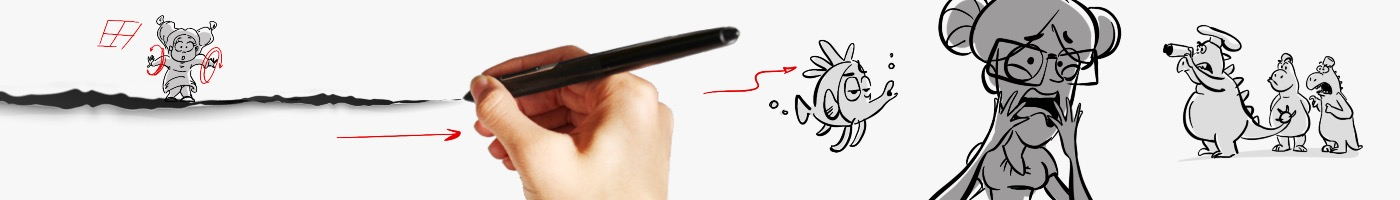
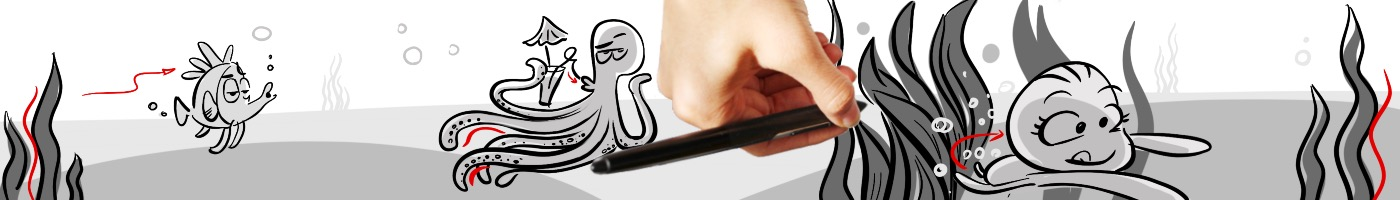
first version of the content

diff --git a/about.html b/about.html
@@ -3,7 +3,7 @@
 <head>
 	<meta charset="UTF-8">
 	<meta name="viewport" content="width=device-width, initial-scale=1.0">
-	<title>Xenia Morgun</title>
+	<title>Xenia Morgun - Storyboarder</title>
 
 	<link rel="stylesheet" href="./design/fonts.css">
 	<link rel="stylesheet" href="./design/banners.css">
@@ -17,12 +17,13 @@
 	<link rel="manifest" href="./favicon/site.webmanifest">
 </head>
 <body>
+	<div class="ARTIST">
+		<h1 class="name">Xenia&nbsp;Morgun / Storyboarder</h1>
+	</div>
+	<div class="PANEL" style="height: 50px;"></div> <!-- Abstand -->
 
 <div class="PANEL">
-	<div class="ARTIST">
-		<h1 class="name">Xenia&nbsp;Morgun</h1>
-	</div>
-	<div class="BANNER2"></div>
+	<div class="BANNER1"></div>
 	<nav>
 		<input type="checkbox" id="click">
 		<label for="click" class="burgerrahmen">
@@ -34,7 +35,6 @@
 			<li><a href="index.html">HOME</a></li>
 			<li><a href="portfolio.html">PORTFOLIO</a></li>
 			<li class="X"><a href="about.html">ABOUT</a></li>
-			<li><a href="cv.html" target="_blank">CV</a></li>
 			<li><a href="contact.html">CONTACT</a></li>
 		</menu>
 	</nav>
@@ -42,23 +42,47 @@
 <div class="PANEL" style="height: 50px;"></div> <!-- Abstand -->
 <main class="PANEL">
 
-  <img src="portrait5.png" alt="portrait5" style="width:250px; border-radius:15px; object-fit:cover; margin-top:35px;">
-
   <p style="text-align: justify;">
     Hi there and Welcome!<br><br>
 
     I’m a passionate visual artist driven by the love of storytelling through images.
-    Storyboarding is where I feel most at home — a space where thoughts, emotions, and ideas come to life in a simple, expressive, and efficient way.
-    With a diverse background in storyboarding, animation, illustration, caricature, drawing, photography, and fine art, I bring projects to life from concept to completion with care and intention.
-    I'm also open to custom work such as whiteboard animations, animatics, tailored illustrations, and caricature portraits — each project is an opportunity to connect, to translate ideas into visual narratives.
-    My tools include Adobe Suite, Toon Boom Storyboard, Blender, and Procreate, all of which I use fluently. I’m constantly evolving, learning new techniques to deliver high-quality, meaningful visuals.
-    I’m looking to collaborate in inspiring environments, where creativity, challenge, and beauty come together to shape unique, emotionally engaging projects.<br><br>
+    Storyboarding is where I feel most at home — a space where thoughts, emotions,
+    and ideas come to life in a simple, expressive, and efficient way.
+    With a diverse background in storyboarding, animation, illustration, caricature,
+    drawing, photography, and fine art, I bring projects to life from concept to completion
+    with care and intention.
+    I'm also open to custom work such as whiteboard animations, animatics, tailored
+    illustrations, and caricature portraits — each project is an opportunity to connect,
+    to translate ideas into visual narratives.
+    My tools include Adobe Suite, Toon Boom Storyboard, Blender, and Procreate, all of which
+    I use fluently. I’m constantly evolving, learning new techniques to deliver high-quality,
+    meaningful visuals.
+    I’m looking to collaborate in inspiring environments, where creativity, challenge, and
+    beauty come together to shape unique, emotionally engaging projects.<br><br>
 
-    Please feel free to contact me here or via e-mail: morgunxenia@gmail.com <br>
+    Please feel free to contact me here or via e-mail: morgunxenia@gmail.com<br>
     I speak fluently in French, English, Romanian and Russian.
   </p>
 
+
 </main>
+
+<div class="NONFLEXPANEL">
+	<img src="portrait3.png" style="width: 150px;
+	        height: 150px;
+	        border-radius: 50%;
+	        display: block;
+	        border:3px solid white;
+	        display: block; /* Macht das Bild zu einem Block-Element */
+	        margin-left: auto; /* Zentriert horizontal */
+	        margin-right: auto; /* Zentriert horizontal */ ">
+	<br>
+	<a href="cv.html" target="_blank" style="text-decoration: none;">Curriculum Vitae</a>
+</div>
+
+
+
+<br><br><br>
 
 <footer class="PANEL">
 	<p>© 2025 X. Morgun</p>

diff --git a/contact.html b/contact.html
@@ -3,7 +3,7 @@
 <head>
 	<meta charset="UTF-8">
 	<meta name="viewport" content="width=device-width, initial-scale=1.0">
-	<title>Xenia Morgun</title>
+	<title>Xenia Morgun - Storyboarder</title>
 
 	<link rel="stylesheet" href="./design/fonts.css">
 	<link rel="stylesheet" href="./design/banners.css">
@@ -18,11 +18,13 @@
 </head>
 <body>
 
-<div class="PANEL">
 	<div class="ARTIST">
-		<h1 class="name">Xenia&nbsp;Morgun / Storyboard</h1>
+		<h1 class="name">Xenia&nbsp;Morgun / Storyboarder</h1>
 	</div>
-	<div class="BANNER3"></div>
+	<div class="PANEL" style="height: 50px;"></div> <!-- Abstand -->
+
+<div class="PANEL">
+	<div class="BANNER2"></div>
 	<nav>
 		<input type="checkbox" id="click">
 		<label for="click" class="burgerrahmen">
@@ -34,7 +36,6 @@
 			<li><a href="index.html">HOME</a></li>
 			<li><a href="portfolio.html">PORTFOLIO</a></li>
 			<li><a href="about.html">ABOUT</a></li>
-			<li><a href="cv.html" target="_blank">CV</a></li>
 			<li class="X"><a href="contact.html">CONTACT</a></li>
 		</menu>
 	</nav>
@@ -46,12 +47,14 @@
 </div>
 
 <div class="PANEL">
-	<p>
-		<strong>Email:</strong> <a href="mailto:your.email@example.com">your.email@example.com</a><br>
-		<strong>Phone:</strong> +32 123 45 67 89<br>
-		<strong>Address:</strong> 123 Storyboard Street, 1000 Brussels, Belgium
+	<p style="line-height: 150%;">
+		<strong>Email:</strong> <a href="mailto:morgunxenia@gmail.com">morgunxenia@gmail.com</a><br>
+		<strong>Phone:</strong> +32 498 37 92 95<br>
+		<strong>Address:</strong> Bd de Douai 83, 4030 Liège, Belgium
 	</p>
 </div>
+
+<br><br><br>
 
 <footer class="PANEL">
 	<p>© 2025 X. Morgun</p>

diff --git a/portfolio.html b/portfolio.html
@@ -3,7 +3,7 @@
 <head>
 	<meta charset="UTF-8">
 	<meta name="viewport" content="width=device-width, initial-scale=1.0">
-	<title>Xenia Morgun</title>
+	<title>Xenia Morgun - Storyboarder</title>
 
 	<link rel="stylesheet" href="./design/fonts.css">
 	<link rel="stylesheet" href="./design/banners.css">
@@ -18,10 +18,12 @@
 </head>
 <body>
 
-<div class="PANEL">
 	<div class="ARTIST">
-		<h1 class="name">Xenia&nbsp;Morgun / Storyboard</h1>
+		<h1 class="name">Xenia&nbsp;Morgun / Storyboarder</h1>
 	</div>
+	<div class="PANEL" style="height: 50px;"></div> <!-- Abstand -->
+
+<div class="PANEL">
 	<div class="BANNER2"></div>
 	<nav>
 		<input type="checkbox" id="click">
@@ -34,12 +36,10 @@
 			<li><a href="index.html">HOME</a></li>
 			<li class="X"><a href="portfolio.html">PORTFOLIO</a></li>
 			<li><a href="about.html">ABOUT</a></li>
-			<li><a href="cv.html" target="_blank">CV</a></li>
 			<li><a href="contact.html">CONTACT</a></li>
 		</menu>
 	</nav>
 </div>
-<div class="PANEL" style="height: 50px;"></div> <!-- Abstand -->
 
 <main class="PANEL">
 	<p style="text-align:center">
@@ -60,6 +60,8 @@
 	</video>
 	</p>
 </main>
+
+<br><br><br>
 
 <footer class="PANEL">
 	<p>© 2025 Xenia Morgun</p>

diff --git a/index.html b/index.html
@@ -3,7 +3,7 @@
 <head>
 	<meta charset="UTF-8">
 	<meta name="viewport" content="width=device-width, initial-scale=1.0">
-	<title>Xenia Morgun</title>
+	<title>Xenia Morgun - Storyboarder</title>
 
 	<link rel="stylesheet" href="./design/fonts.css">
 	<link rel="stylesheet" href="./design/banners.css">
@@ -18,10 +18,13 @@
 </head>
 <body>
 
-<div class="PANEL">
 	<div class="ARTIST">
-		<h1 class="name">Xenia&nbsp;Morgun / Storyboard</h1>
+		<h1 class="name">Xenia&nbsp;Morgun / Storyboarder</h1>
 	</div>
+	<div class="PANEL" style="height: 50px;"></div> <!-- Abstand -->
+
+<div class="PANEL">
+
 	<div class="BANNER1"></div>
 	<nav>
 		<input type="checkbox" id="click">
@@ -34,7 +37,6 @@
 			<li class="X"><a href="index.html">HOME</a></li>
 			<li><a href="portfolio.html">PORTFOLIO</a></li>
 			<li><a href="about.html">ABOUT</a></li>
-			<li><a href="cv.html" target="_blank">CV</a></li>
 			<li><a href="contact.html">CONTACT</a></li>
 		</menu>
 	</nav>
@@ -48,6 +50,8 @@
 	</p>
 
 </main>
+
+<br><br><br>
 
 <footer class="PANEL">
 	<p>© 2025 X. Morgun</p>

diff --git a/design/structure.css b/design/structure.css
@@ -19,6 +19,26 @@ body {
 	align-items: center; /* vertical */
 }
 
+.NONFLEXPANEL {
+	margin-left: auto;  /* center align of */
+	margin-right: auto; /* the whole panel */
+	text-align: center;
+	justify-content: center; /* horizontal */
+}
+
+.ARTIST
+{
+	padding: 0;
+	margin: 0;
+	position: absolute;
+	top: 0;
+	left: 0;
+	width: 100%;
+	height: 55px;
+	font-size: 20pt;
+	line-height: 55px; /* Text vertikal zentrieren */
+}
+
 @media only screen and (min-width: 600px) {
 	.ARTIST {
 		text-align: center;

diff --git a/cv.html b/cv.html
@@ -3,7 +3,7 @@
 <head>
 	<meta charset="UTF-8">
 	<meta name="viewport" content="width=device-width, initial-scale=1.0">
-	<title>Curiculum Vitae</title>
+	<title>CV of Xenia Morgun - Storyboarder</title>
 
 	<meta name="format-detection" content="telephone=no">
 

diff --git a/design/menu.css b/design/menu.css
@@ -15,12 +15,12 @@ nav menu.mainmenu li a {
 }
 
 nav menu.mainmenu li.X a {
-	color: rgb(95,195,95);
+	color: crimson;
 }
 
 nav menu.mainmenu li a:hover {
 	color: black;
-	text-decoration: underline;
+	text-decoration: none;
 }
 
 @media (min-width: 1400px) {
